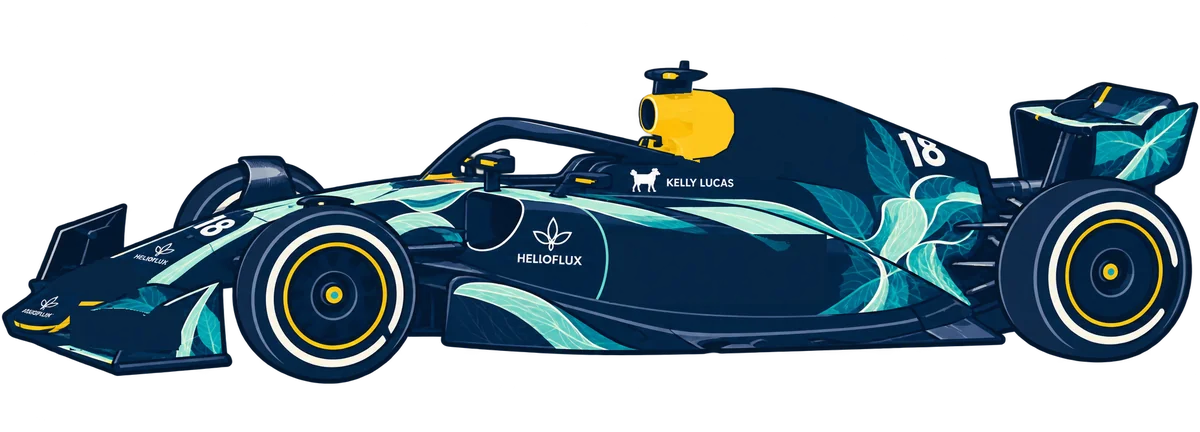
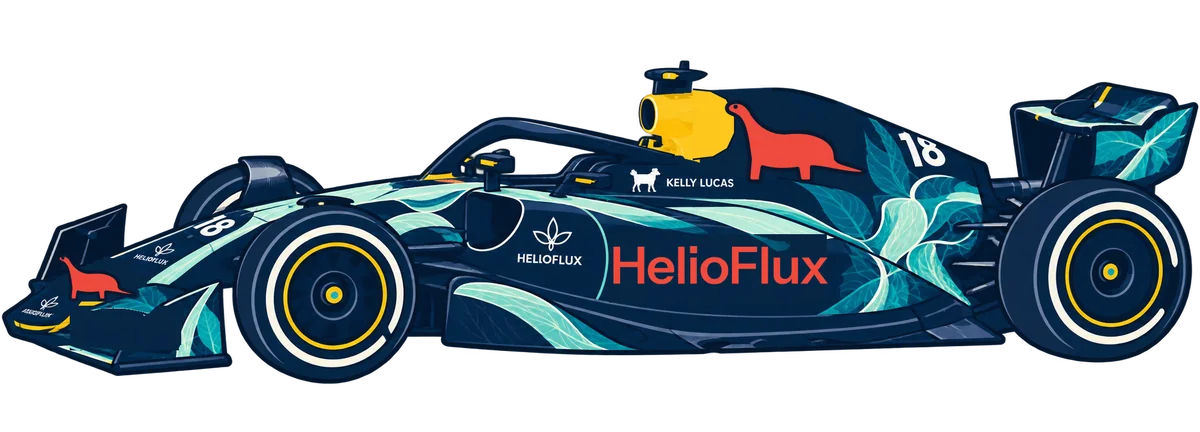
Race car: red dinos where the bulls were, red HelioFlux on the sidepod
Claude-Session: https://claude.ai/code/session_01FMCypF1q7mB6mbSaGuviN5

Changed region(s): [[0.4933, 0.5718, 0.7092, 0.662], [0.5858, 0.2407, 0.74, 0.4213], [0.0308, 0.6019, 0.1233, 0.6921]]

diff --git a/CLAUDE.md b/CLAUDE.md
@@ -42,7 +42,7 @@ lives in `PRODUCT.md`; the built visual system is recorded in `DESIGN.md`.
   the places band and the colophon say the drawings were made with an image
   model in Kelly's style.
 - Personality budget: the tab-title message, "Another place", the "Kelly"
-  cursor tag on the poster, the race car (Kelly's side-view drawing, Red Bull marks painted out)
+  cursor tag on the poster, the race car (Kelly's side-view drawing, red dinos and HelioFlux in place of the Red Bull marks)
   that laps the foot of the homepage hero now and then, the Alt+Shift+M
   reflex on the homepage, the
   "Clip it" demo on the Magpie page, the magpie 404, and the playground.
